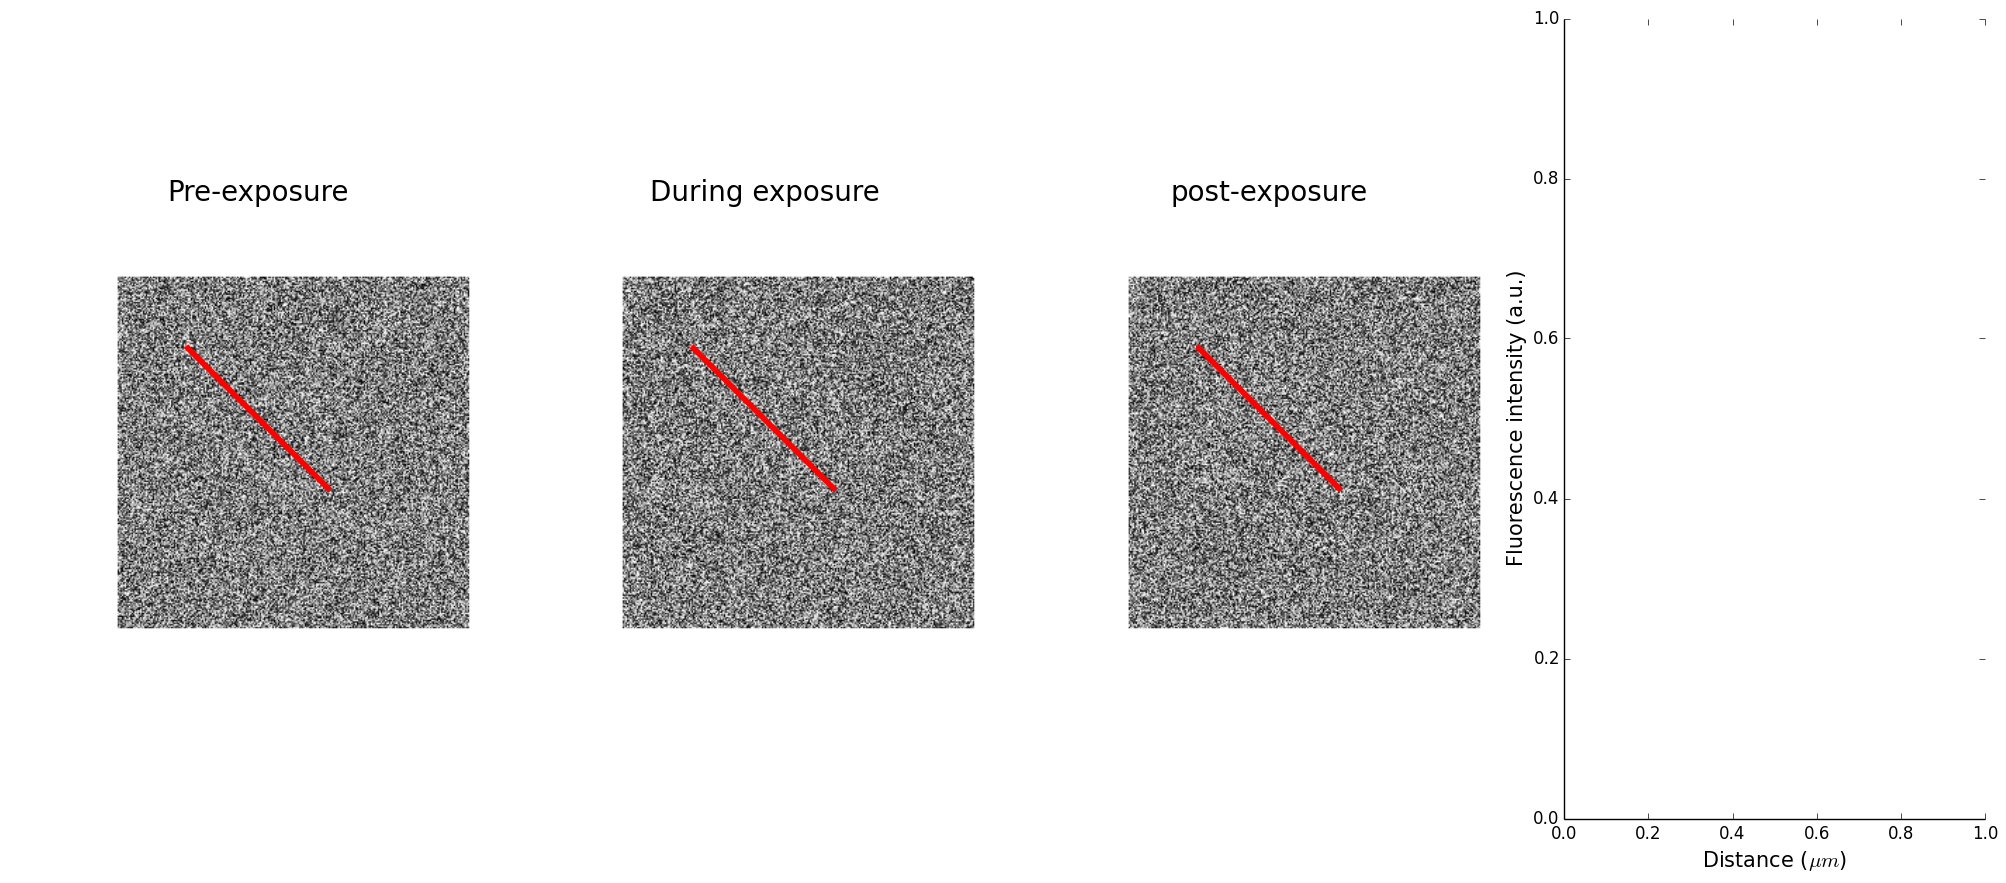
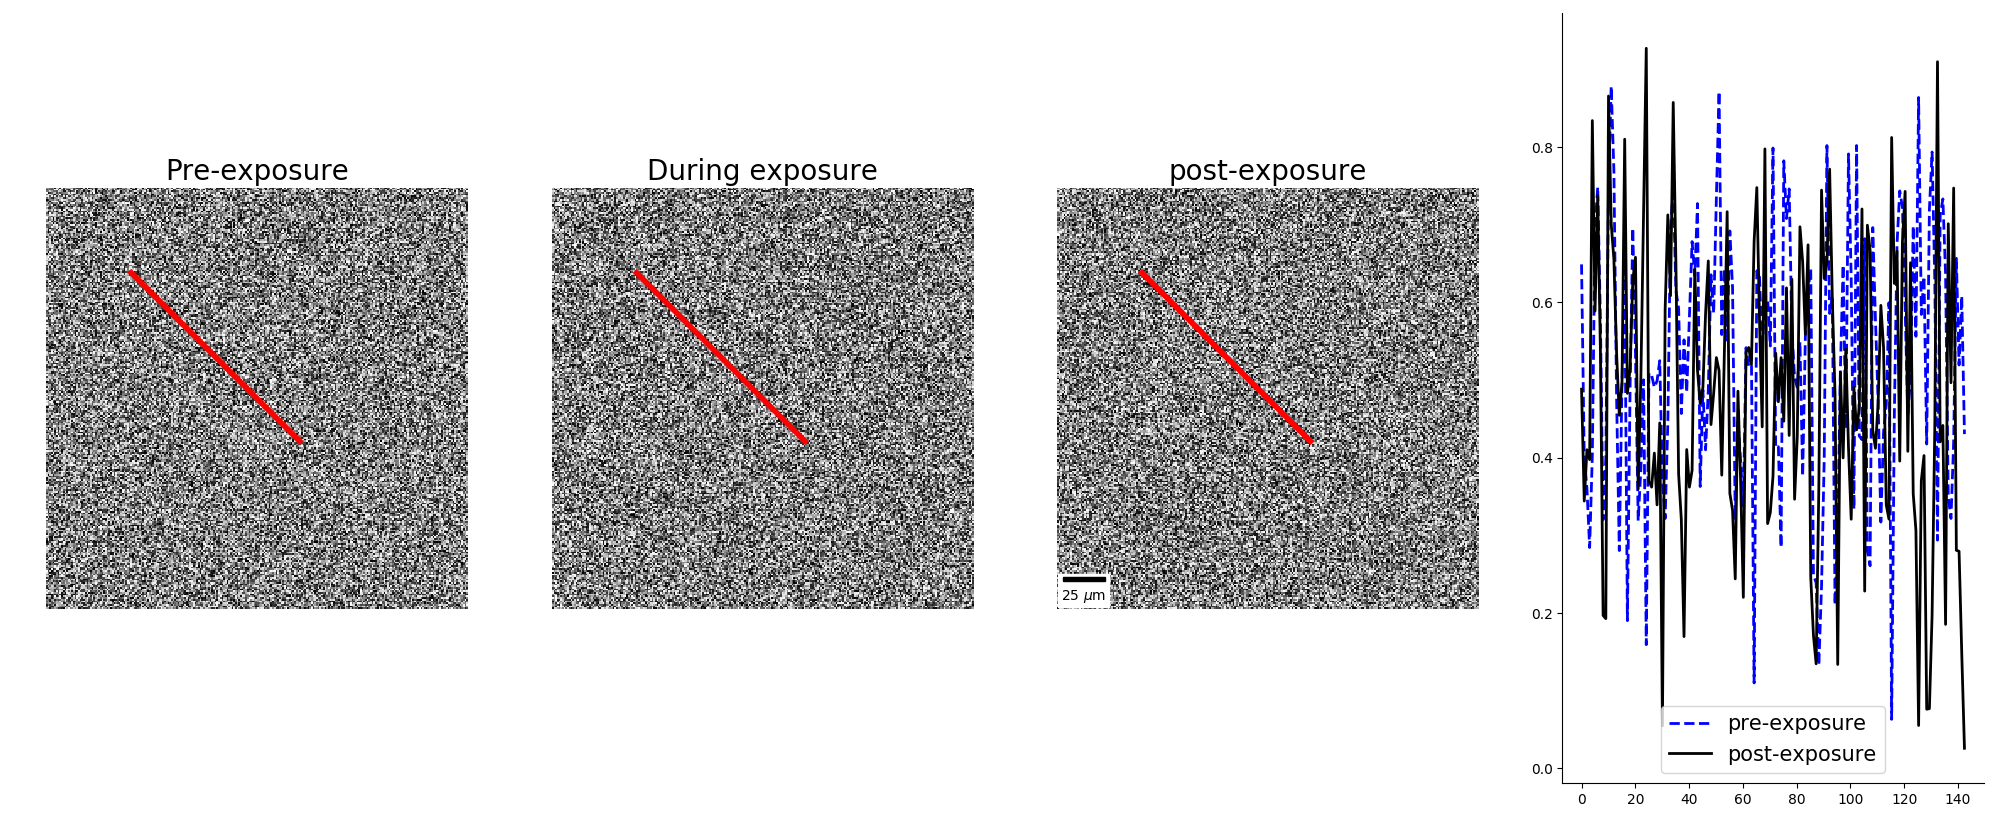
Oops, fixed some figures

diff --git a/imageanalysis.py b/imageanalysis.py
@@ -103,6 +103,7 @@ def scale_plot(img, imageSize, scale, units, scalebar_length, color):
     plt.gca().add_artist(scalebar)
 
 ## example data
+from matplotlib_scalebar.scalebar import ScaleBar
 import numpy as np # for image example
 
 np.random.seed(0)
@@ -202,7 +203,7 @@ now_three =np.dstack((two_channel_image[:,:,0], two_channel_image[:,:,1],
 
 # plot 2 channels of an image with scalebar
 
- f, (ax1,ax2,ax3) = plt.subplots(1,3, figsize=(20,20))
+f, (ax1,ax2,ax3) = plt.subplots(1,3, figsize=(20,20))
 ax1.imshow(now_three[:,:,0], cmap="Greens_r") # note colormap
 ax1.axis('off')
 ax1.set_title('Channel 1',size=15)
